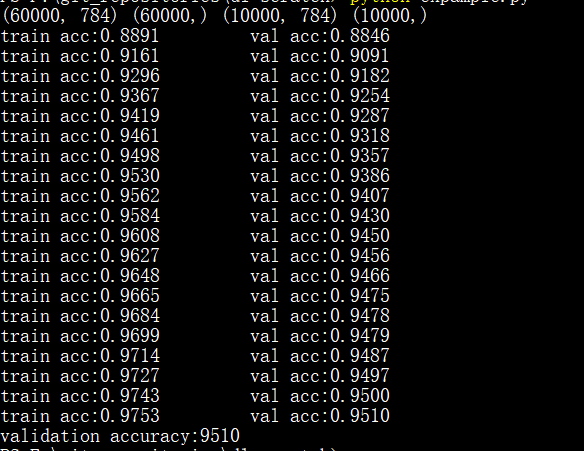
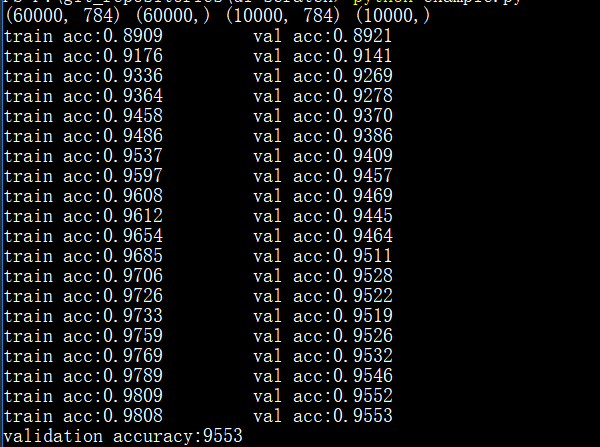
shuffle

Changed region(s): [[0.0, 0.0, 0.8938, 1.0], [0.524, 0.9888, 0.5548, 1.0]]

diff --git a/mlp.py b/mlp.py
@@ -8,8 +8,10 @@
 import numpy as np
 import pickle
 
+
 def sigmoid(x):
     return 1/(1+np.exp(-x))
+
 
 def softmax(x):
     exp_x = np.exp(x)
@@ -105,9 +107,13 @@ class MLP(object):
             self.parameters[key] += v[key]
         return v
 
-    def fit(self, x, y, val_x=None, val_y=None, batch_size=32, epochs=100, shuffle=False, lr=1e-2, momentum=0):
+    def fit(self, x, y, val_x=None, val_y=None, batch_size=32, epochs=100, lr=1e-2, momentum=0):
         n = x.shape[0]
+        indexs = np.arange(x.shape[0])
         for e in range(1, epochs+1):
+            np.random.shuffle(indexs)
+            x = x[indexs]
+            y = y[indexs]
             for i in range(0, n, batch_size):
                 batch_x = x[i:i+batch_size]
                 batch_y_true = y[i:i+batch_size]
